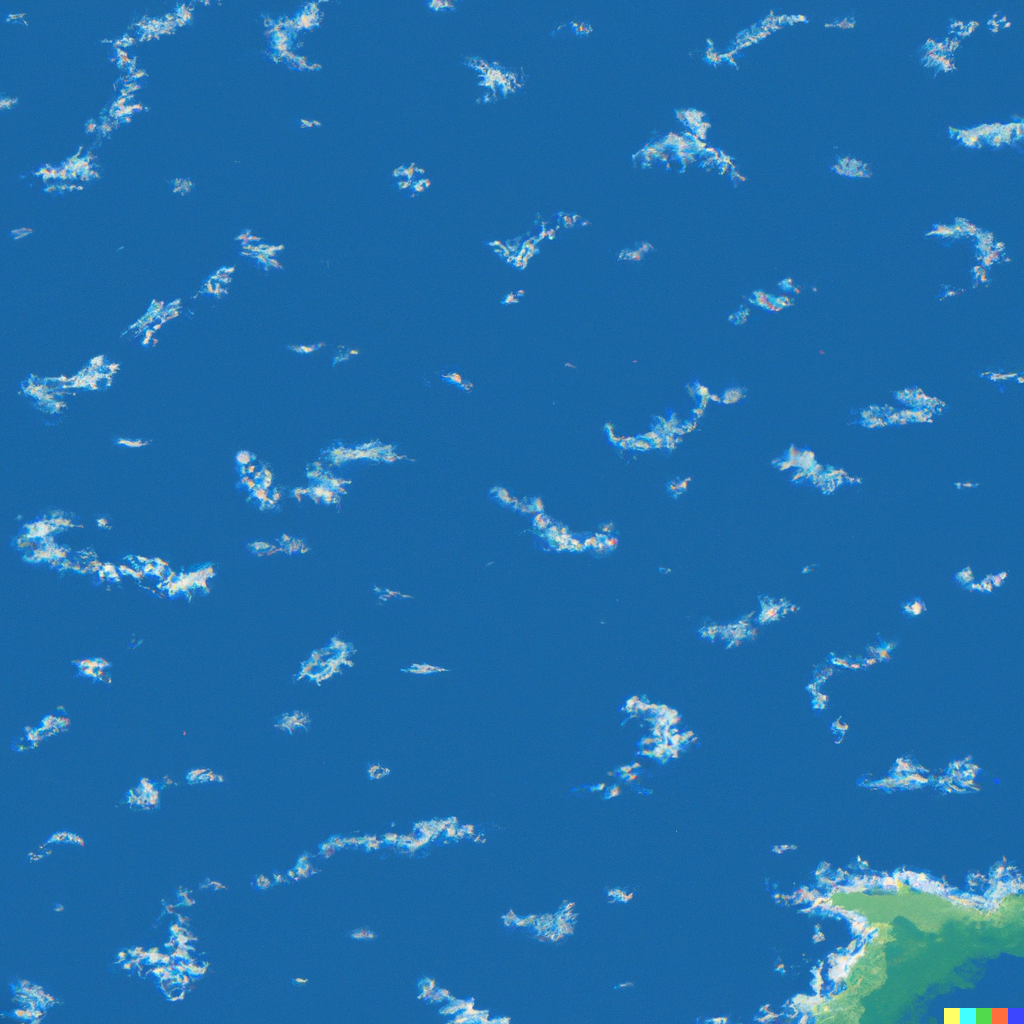
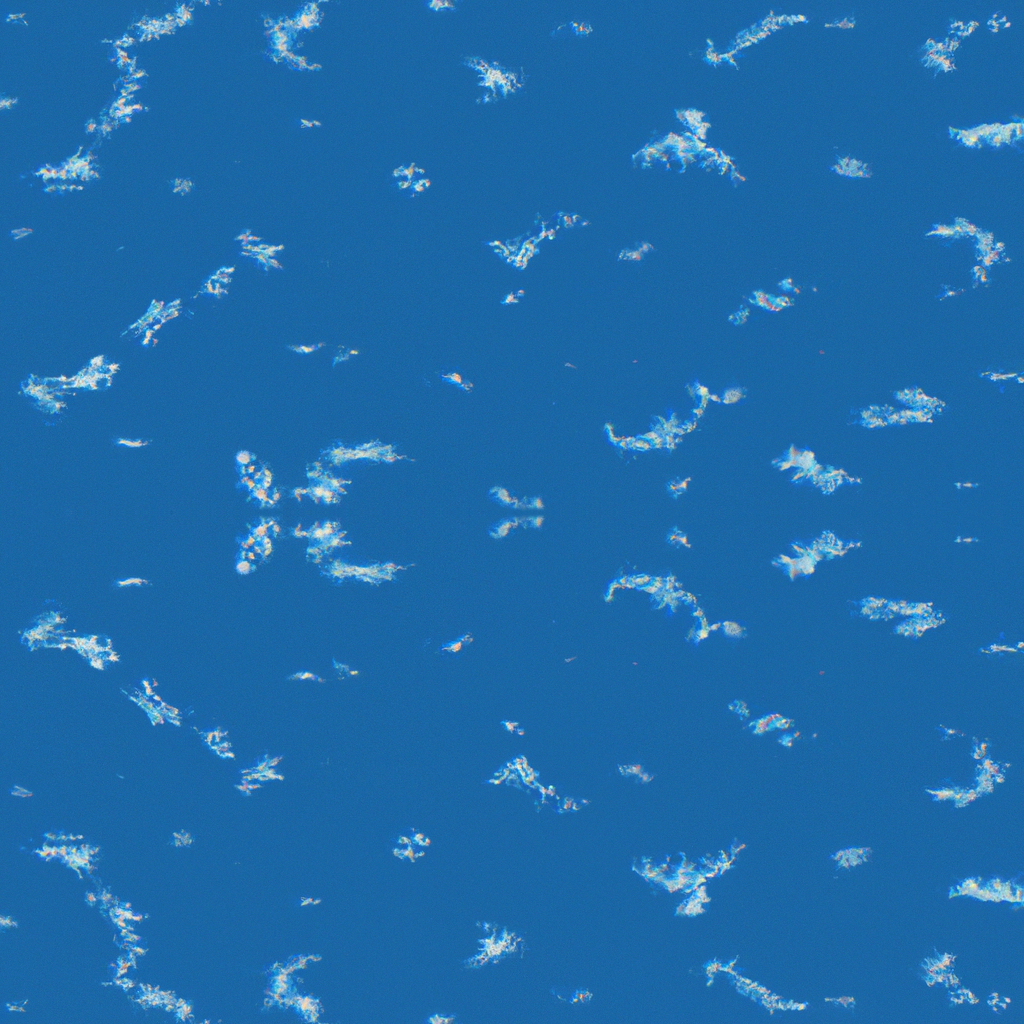
Arreglado todo y añadido fondo

diff --git a/Code/core/src/com/mygdx/code/PantallaPartida.java b/Code/core/src/com/mygdx/code/PantallaPartida.java
@@ -10,80 +10,57 @@ import com.badlogic.gdx.Screen;
 import com.badlogic.gdx.graphics.OrthographicCamera;
 import com.badlogic.gdx.graphics.Texture;
 import com.badlogic.gdx.math.Vector2;
+import com.badlogic.gdx.math.Vector3;
 import com.badlogic.gdx.physics.box2d.*;
 import com.badlogic.gdx.physics.box2d.BodyDef.BodyType;
 import com.badlogic.gdx.utils.Array;
 import com.badlogic.gdx.utils.ScreenUtils;
-import com.badlogic.gdx.graphics.g2d.Batch;
 import com.badlogic.gdx.graphics.g2d.Sprite;
-import com.badlogic.gdx.graphics.g2d.SpriteBatch;
 
 public class PantallaPartida implements Screen {
-	static final float relation = 15;
+	static final float relation = (Gdx.graphics.getWidth()/Gdx.graphics.getHeight())+15;
 	static final float STEP_TIME = 1f/60f;
 	float accumulator = 0;
 	World fisicas;
-	Sprite barco;
 	Barco boat;
 	TipoBarco elegido;
 	OrthographicCamera camara;
 	Box2DDebugRenderer debugRenderer;
-	BodyDef bodyDef = new BodyDef();
-	BodyDef bodyDef2 = new BodyDef();
-	
-	Sprite powerUp;
-	
 	Code code;
+	BackgroundPartida background;
 	public PantallaPartida(Code code) {
 		this.code = code;
+	}
+	private Body crearCuerpo(Vector2 posicion, BodyType tipo, float densidad, float friccion, float rebote, boolean sensor,Sprite foto,float escala,Vector2 tamaño) {
+		foto.setScale(escala/relation);
+		BodyDef bodyDef = new BodyDef();
+		bodyDef.type = tipo;
+		bodyDef.position.set(posicion);
+		Body cuerpo = fisicas.createBody(bodyDef);
+		FixtureDef fixtureDef = new FixtureDef();
+		PolygonShape poly = new PolygonShape();
+		poly.setAsBox(tamaño.x/relation, tamaño.y/relation);
+		fixtureDef.shape = poly;
+		fixtureDef.density = densidad;
+		fixtureDef.friction = friccion;
+		fixtureDef.restitution = rebote;
+		fixtureDef.isSensor = sensor;
+		cuerpo.createFixture(fixtureDef);
+		poly.dispose();
+		cuerpo.setUserData(foto);
+		return cuerpo;
 	}
 
 	@Override
 	public void show() {
-		powerUp = new Sprite(new Texture("powerUp.png"),1024,1024);
 		camara = new OrthographicCamera(Gdx.graphics.getWidth()/relation,Gdx.graphics.getHeight()/relation);  
-		barco = new Sprite(new Texture("barquito.png"),294,886);
-		barco.setScale(0.20f/relation);
-		powerUp.setScale(0.05f/relation);
+		background = new BackgroundPartida(relation,camara);
 		Box2D.init();
 		debugRenderer = new Box2DDebugRenderer();
 		fisicas = new World(new Vector2(0, 0), true);
-		bodyDef.type = BodyType.DynamicBody;
-		bodyDef2.type = BodyType.StaticBody;
-		
-		bodyDef.position.set(0, 0);
-		bodyDef2.position.set(0,20);
-		
-		Body body = fisicas.createBody(bodyDef);
-		Body body2 = fisicas.createBody(bodyDef2);
-		FixtureDef fixtureDef = new FixtureDef();
-		FixtureDef fixtureDef2= new FixtureDef();
-		PolygonShape poly = new PolygonShape();
-		PolygonShape poly2 = new PolygonShape();
-		poly.setAsBox(20/relation, 85/relation);
-		fixtureDef.shape = poly;
-		fixtureDef.density = 0.5f;
-		fixtureDef.friction = 0.4f;
-		fixtureDef.restitution = 0.6f;
-		
-		poly2.setAsBox(40/relation, 40/relation);
-		fixtureDef2.shape = poly2;
-		fixtureDef2.density = 0.01f;
-		fixtureDef2.friction = 0.01f;
-		fixtureDef2.restitution = 0.5f;
-		fixtureDef2.isSensor = true;
-		
-		body.createFixture(fixtureDef);
-		poly.dispose();
-		
-		body2.createFixture(fixtureDef2);
-		poly2.dispose();
-				
-		body.setUserData(barco);
-		body2.setUserData(powerUp);
-		boat = new Barco(new TipoBarco(20f,20f,"Neutro",10f,100f),body);
-		
-		
+		Body barco = crearCuerpo(new Vector2(0,0),BodyType.DynamicBody,0.5f,0.4f,0.6f,false,new Sprite(new Texture("barquito.png"),294,886),0.20f,new Vector2(20,85)); 
+		Body powerup = crearCuerpo(new Vector2(0,20),BodyType.StaticBody,0.01f,0.01f,0.5f,true,new Sprite(new Texture("powerUp.png"),1024,1024),0.05f,new Vector2(40,40));
+		boat = new Barco(new TipoBarco(20f,20f,"Neutro",10f,100f),barco);
 	}
 
 	@Override
@@ -101,19 +78,24 @@ public class PantallaPartida implements Screen {
 		if(Gdx.input.isKeyPressed(Keys.S)) {
 			boat.frenar();
 		}
+		Vector2 pos2 = boat.body.getPosition();
+		camara.position.set(new Vector3(pos2.x,pos2.y,0));
+		camara.update();
 		debugRenderer.render(fisicas, camara.combined);
-		Array<Body> lista = new Array();
+		Array<Body> lista = new Array<Body>();
 		fisicas.getBodies(lista);
 		Iterator<Body> iter = lista.iterator();
 	    Body body;
 	    Sprite sprite;
+	    background.animate(delta);
 	    this.code.batch.setProjectionMatrix(camara.combined);
 	    this.code.batch.begin();
+	    background.draw(this.code.batch);
 	    while (iter.hasNext()) {
 	        body = iter.next();
 	        sprite = (Sprite) body.getUserData();
 	        Vector2 pos = body.getPosition();
-	        sprite.setRotation(180f+(float)Math.toDegrees(body.getAngle()));
+	        sprite.setRotation((float)Math.toDegrees(body.getAngle()));
 	        sprite.setCenter(pos.x, pos.y);
 	        sprite.draw(this.code.batch);
 	    }

diff --git a/Code/core/src/com/mygdx/code/BackgroundPartida.java b/Code/core/src/com/mygdx/code/BackgroundPartida.java
@@ -1,0 +1,46 @@
+package com.mygdx.code;
+
+import com.badlogic.gdx.Gdx;
+import com.badlogic.gdx.graphics.OrthographicCamera;
+import com.badlogic.gdx.graphics.Texture;
+import com.badlogic.gdx.graphics.g2d.Sprite;
+import com.badlogic.gdx.graphics.g2d.SpriteBatch;
+import com.badlogic.gdx.math.Vector2;
+import com.badlogic.gdx.physics.box2d.Body;
+
+public class BackgroundPartida {
+	Sprite background;
+	Sprite background2;
+	Vector2 posicion;
+	Vector2 posicion2;
+	float h;
+	float w;
+	OrthographicCamera camara;
+	float acumulador = 0;
+	public BackgroundPartida(float relation,OrthographicCamera camara) {
+		background = new Sprite(new Texture("aguaRio.png"),1024,1024);
+		//background2 = new Sprite(new Texture("aguaRio.png"),1024,1024);
+		this.w = Gdx.graphics.getWidth()/relation;
+		this.h = Gdx.graphics.getHeight()/relation;
+		background.setSize(w+50, h+50);
+
+		//background2.setSize(w, h);
+		//background2.flip(false, true);
+		
+		this.camara = camara;
+		posicion = new Vector2(camara.position.x,camara.position.y);
+		//posicion2 = new Vector2(camara.position.x,camara.position.y+h);
+	}
+	public void animate(float delta) {
+		acumulador += delta;
+		posicion.x = camara.position.x;
+		posicion.y = camara.position.y;
+		posicion.x += 2*Math.sin(acumulador);
+	    background.setCenter(posicion.x, posicion.y);
+	}
+	public void draw(SpriteBatch batch) {
+		background.draw(batch);
+ 
+		//background2.draw(batch);
+	}
+}
